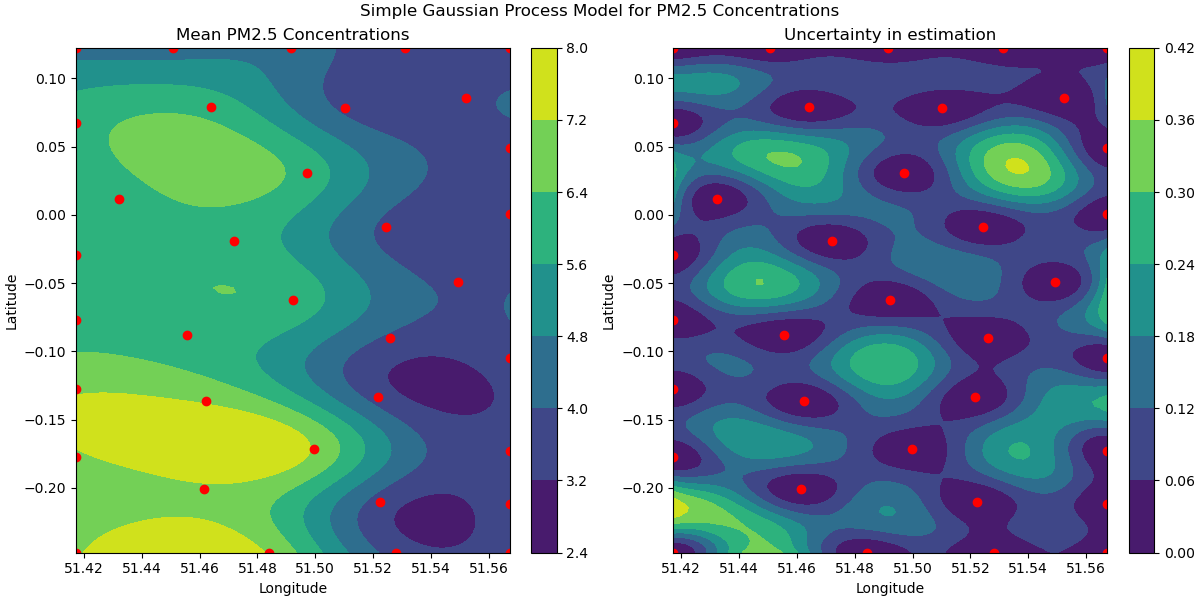
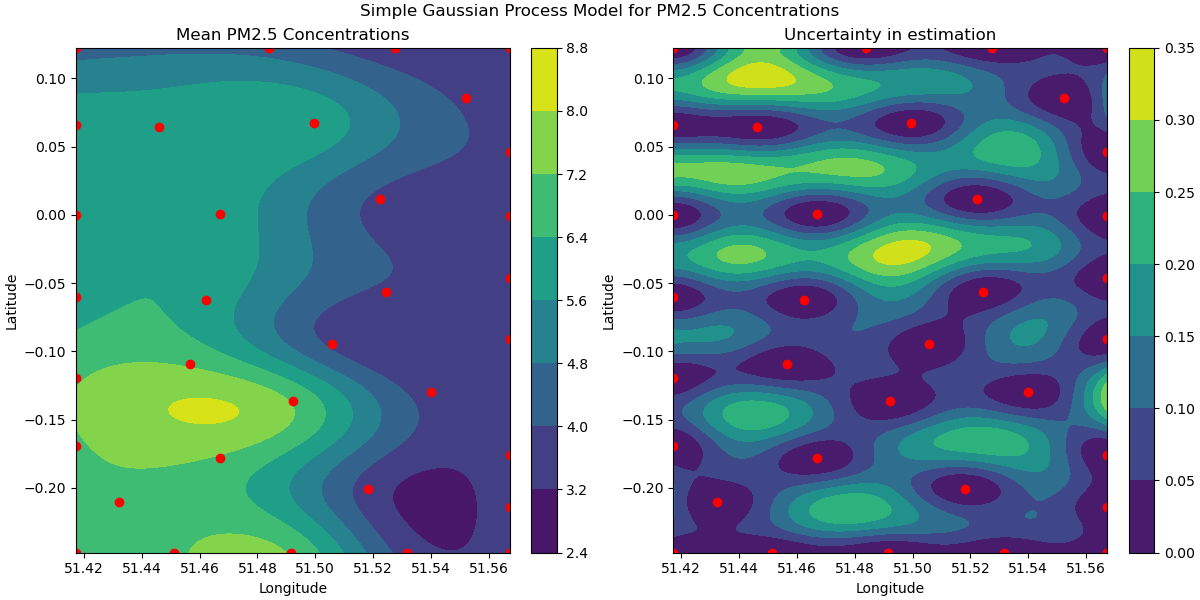
:sparkles: added `process_result` function

diff --git a/gaussian_process.py b/gaussian_process.py
@@ -1,3 +1,4 @@
+import math
 from pathlib import Path
 from typing import Literal
 
@@ -20,9 +21,9 @@ from custom_experimental_design_loop import CustomExperimentalDesignLoop
 from dataset import (
     extend_train_data,
     get_air_pollutant_level,
-    get_batch_air_pollutant_levels, INPUTS_DIR,
+    get_batch_air_pollutant_levels, INPUTS_DIR, get_cached_air_pollution_data,
 )
-from dataset import get_cached_openweather_data, generate_air_pollution_cache
+from dataset import get_cached_openweather_data
 
 
 def get_model(train_x: npt.ArrayLike, train_y: npt.ArrayLike):
@@ -70,59 +71,6 @@ def run_bayes_optimization(
     return expdesign_loop
 
 
-def plot_results(
-        model: IModel,
-        observations: np.ndarray,
-        bounds: dict[str, tuple[float, float]],
-        climate_variables: list[str],
-        load_from_cache: bool = True,
-):
-    num_samples = 10
-    linear_spaces = []
-    for name, (min_bound, max_bound) in bounds.items():
-        linear_spaces.append(
-            np.linspace(start=min_bound, stop=max_bound, num=num_samples)
-        )
-
-    meshgrid = np.meshgrid(*linear_spaces)
-
-    if load_from_cache:
-        # get meshgrid of num_samples, hence num_samples squared
-        model_inputs = get_cached_openweather_data(num_samples ** 2,
-                                                   climate_variables=climate_variables)
-    else:
-        model_inputs = np.column_stack(
-            [meshgrid_dimension.ravel() for meshgrid_dimension in meshgrid]
-        )
-        model_inputs = extend_train_data(model_inputs, climate_variables)
-
-    mean, uncertainty = model.predict(model_inputs)
-
-    reshape_parameters = tuple([num_samples] * len(bounds))
-    mean = mean.reshape(reshape_parameters)
-    uncertainty = uncertainty.reshape(reshape_parameters)
-
-    fig, (ax1, ax2) = plt.subplots(
-        ncols=2, nrows=1, figsize=(12, 6), constrained_layout=True
-    )
-    ax1.set_title("Mean PM2.5 Concentrations")
-    ax1.set_xlabel("Longitude")
-    ax1.set_ylabel("Latitude")
-    cs1 = ax1.contourf(meshgrid[0], meshgrid[1], mean)
-    ax1.scatter(observations[:, 0], observations[:, 1], c="red", marker="o")
-    plt.colorbar(cs1, ax=ax1)
-
-    ax2.set_title("Uncertainty in estimation")
-    ax2.set_xlabel("Longitude")
-    ax2.set_ylabel("Latitude")
-    cs2 = ax2.contourf(meshgrid[0], meshgrid[1], uncertainty)
-    ax2.scatter(observations[:, 0], observations[:, 1], c="red", marker="o")
-    plt.colorbar(cs2, ax=ax2)
-    fig.suptitle("Simple Gaussian Process Model for PM2.5 Concentrations")
-    fig.savefig("gaussian_process.png")
-    plt.show()
-
-
 def evaluate_model(
         y_pred: npt.ArrayLike,
         y_true: npt.ArrayLike,
@@ -134,6 +82,53 @@ def evaluate_model(
         return mean_squared_error(y_true, y_pred)
     if metric == "RMSE":
         return mean_squared_error(y_true, y_pred, squared=False)
+
+
+def plot_results(mean, uncertainty, coords, observations):
+    fig, (ax1, ax2) = plt.subplots(
+        ncols=2, nrows=1, figsize=(12, 6), constrained_layout=True
+    )
+
+    num_samples = math.isqrt(coords.shape[0])
+    print(num_samples)
+
+    mean = mean.reshape((num_samples, num_samples))
+    uncertainty = uncertainty.reshape((num_samples, num_samples))
+
+    ax1.set_title("Mean PM2.5 Concentrations")
+    ax1.set_xlabel("Longitude")
+    ax1.set_ylabel("Latitude")
+    cs1 = ax1.contourf(coords[:, 0].reshape((num_samples, num_samples)),
+                       coords[:, 1].reshape((num_samples, num_samples)), mean)
+    ax1.scatter(observations[:, 0], observations[:, 1], c="red", marker="o")
+    plt.colorbar(cs1, ax=ax1)
+
+    ax2.set_title("Uncertainty in estimation")
+    ax2.set_xlabel("Longitude")
+    ax2.set_ylabel("Latitude")
+    cs2 = ax2.contourf(coords[:, 0].reshape((num_samples, num_samples)),
+                       coords[:, 1].reshape((num_samples, num_samples)), uncertainty)
+    ax2.scatter(observations[:, 0], observations[:, 1], c="red", marker="o")
+    plt.colorbar(cs2, ax=ax2)
+    fig.suptitle("Simple Gaussian Process Model for PM2.5 Concentrations")
+    fig.savefig("gaussian_process.png")
+    plt.show()
+
+
+def process_results(model: IModel, observations: np.ndarray, num_samples: int,
+                    climate_variables: list[str] = []):
+    model_inputs = get_cached_openweather_data(num_samples ** 2, climate_variables)
+    print(model_inputs[:, :2].shape)
+    ground_truth = get_cached_air_pollution_data(num_samples ** 2)
+
+    mean, uncertainty = model.predict(model_inputs)
+
+    # plot the results
+    plot_results(mean, uncertainty, model_inputs[:, :2], observations)
+
+    # evaluate model performance
+    mae = evaluate_model(mean, ground_truth)
+    print(f"Mean absolute error: {mae:.2f}")
 
 
 def run_basic_gp_regression(sample_locations_air_pollution_df: pd.DataFrame):
@@ -213,14 +208,19 @@ def main(climate_variables):
         acquisition_func,
         climate_variables=climate_variables,
     )
-    plot_results(
+    process_results(
         results.model,
-        results.loop_state.X,
-        bounds,
-        climate_variables=climate_variables,
+        results.loop_state.X[:, :2],
+        200,
+        climate_variables=climate_variables
     )
+    # plot_results(
+    #     results.model,
+    #     results.loop_state.X,
+    #     bounds,
+    #     climate_variables=climate_variables,
+    # )
 
 
 if __name__ == "__main__":
-    # main()
-    generate_air_pollution_cache()
+    main()

diff --git a/dataset.py b/dataset.py
@@ -248,6 +248,15 @@ def get_cached_openweather_data(num_samples: int | None = None,
     return np.array(cached_data)
 
 
+def get_cached_air_pollution_data(num_samples: int | None,
+                                 columns: list[str] = ["pm2_5"]) -> np.ndarray:
+    df = pd.read_csv(f"{DATA_DIR}/cached_air_pollution_data.csv")
+    if not num_samples:
+        return np.array([])
+
+    return df[:num_samples][columns].values
+
+
 def get_climate_data(
         coordinates: np.array,
         climate_variables: list[str],
@@ -336,19 +345,17 @@ def setup_cache_data(
                 row_data[climate_var] = climate_data[i]
             writer.writerow(row_data)
 
+
 def generate_air_pollution_cache():
     coordinates = pd.read_csv(f"{DATA_DIR}/cached_openweather_data.csv")[
         ['latitude', 'longitude']].values
-
-    print(coordinates)
 
     raw_data = get_batch_air_pollutant_data(coordinates)
 
     air_pollutant_df = pd.concat(raw_data)
 
-    print(air_pollutant_df)
-
     air_pollutant_df.to_csv(f"{DATA_DIR}/cached_air_pollution_data.csv", index=False)
+
 
 if __name__ == "__main__":
     longitude_bounds = (51.41728104, 51.56728104)
